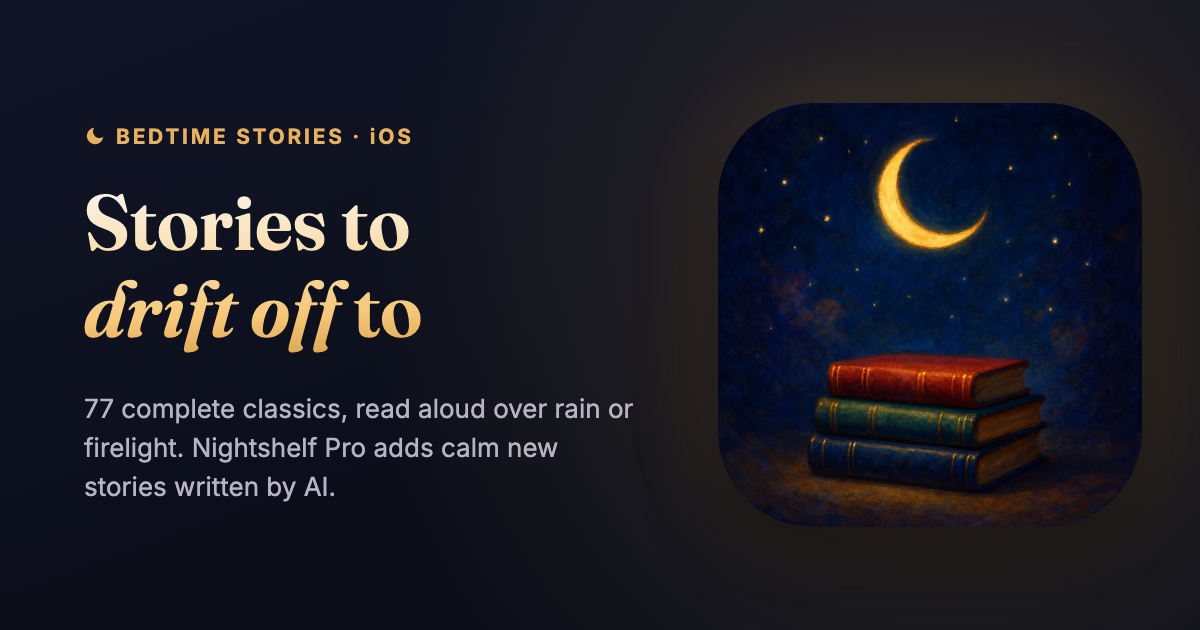
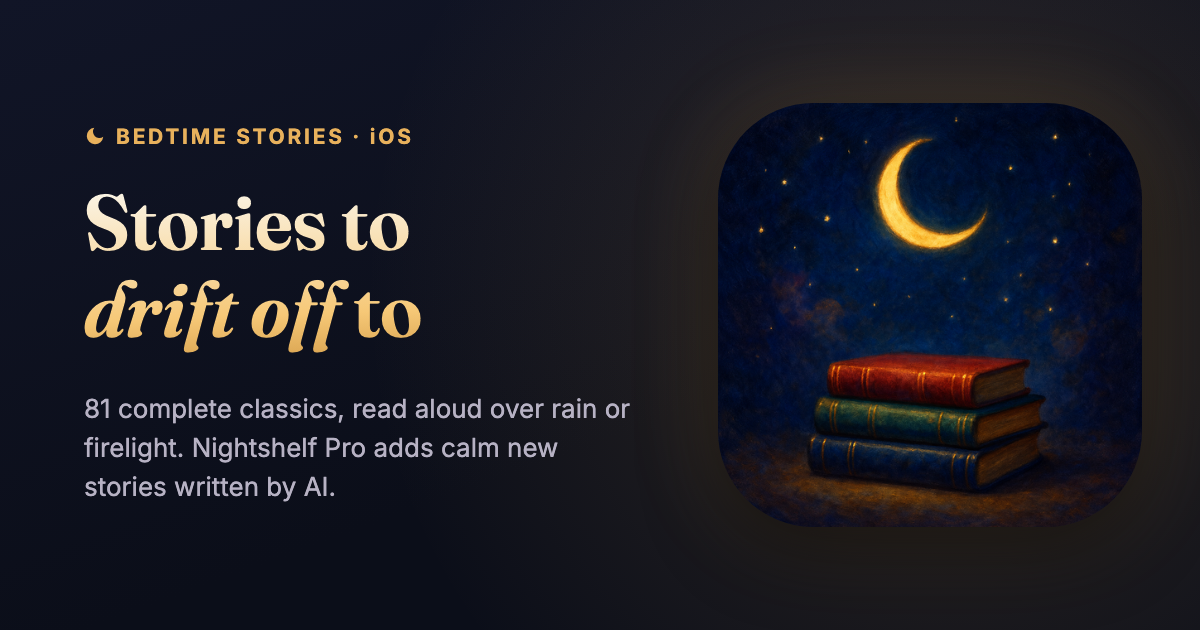
Prepare Nightshelf 1.8 catalog and sharing website

Changed region(s): [[0.0617, 0.6333, 0.5242, 0.6635]]

diff --git a/nightshelf/index.html b/nightshelf/index.html
@@ -10,23 +10,23 @@
   <meta name="theme-color" content="#0B0E19">
   <title>Nightshelf — sleep stories &amp; bedtime reading for iOS</title>
   
-  <meta name="description" content="Bedtime stories for iPhone. 77 complete classics read aloud over rain or firelight, plus calm new AI-written stories with Nightshelf Pro.">
+  <meta name="description" content="Bedtime stories for iPhone. 81 complete classics read aloud over rain or firelight, plus calm new AI-written stories with Nightshelf Pro.">
   <meta name="robots" content="index, follow">
   <link rel="canonical" href="https://hypersage.ai/nightshelf/">
 
   <meta property="og:type" content="website">
   <meta property="og:title" content="Nightshelf — Bedtime stories, read aloud">
-  <meta property="og:description" content="77 complete classics, read aloud over rain or firelight. Nightshelf Pro adds calm new stories written by AI.">
+  <meta property="og:description" content="81 complete classics, read aloud over rain or firelight. Nightshelf Pro adds calm new stories written by AI.">
   <meta property="og:url" content="https://hypersage.ai/nightshelf/">
   <meta property="og:site_name" content="Nightshelf">
-  <meta property="og:image" content="https://hypersage.ai/nightshelf/og-image.png?v=20260922">
+  <meta property="og:image" content="https://hypersage.ai/nightshelf/og-image.png?v=20260923">
   <meta property="og:image:width" content="1200">
   <meta property="og:image:height" content="630">
   <meta property="og:image:alt" content="Nightshelf — stories to drift off to: stacked books beneath a crescent moon">
   <meta name="twitter:card" content="summary_large_image">
   <meta name="twitter:title" content="Nightshelf — Bedtime stories, read aloud">
   <meta name="twitter:description" content="Complete bedtime classics, read aloud in a soft, sleepy voice. Nightshelf Pro adds calm new stories written by AI.">
-  <meta name="twitter:image" content="https://hypersage.ai/nightshelf/og-image.png?v=20260922">
+  <meta name="twitter:image" content="https://hypersage.ai/nightshelf/og-image.png?v=20260923">
   <meta name="twitter:image:alt" content="Nightshelf — stories to drift off to: stacked books beneath a crescent moon">
 
   <link rel="icon" type="image/png" href="app-icon.png">
@@ -559,9 +559,9 @@
 
 
     /* ====================== FREE / PRO SHELF ========================
-       The shelf itself, as spines: 77 books = 13 free (gold) + 64 with
+       The shelf itself, as spines: 81 books = 15 free (gold) + 66 with
        Pro (dim). Counts mirror the stat strip and the "A Shelf for the
-       Night" card — 13 gold + 64 dim path segments, no more, no fewer.
+       Night" card — 15 gold + 66 dim path segments, no more, no fewer.
        Static by default; the glow is progressive enhancement. */
     .shelfviz { max-width: 740px; margin: 56px auto 0; }
     .shelfviz svg { display: block; width: 100%; height: auto; }
@@ -599,7 +599,7 @@
   "name": "Nightshelf",
   "applicationCategory": "LifestyleApplication",
   "operatingSystem": "iOS",
-  "description": "Bedtime stories for iPhone. 77 complete classics read aloud with ambient sound and a sleep timer, plus calm new stories written by AI with Nightshelf Pro.",
+  "description": "Bedtime stories for iPhone. 81 complete classics read aloud with ambient sound and a sleep timer, plus calm new stories written by AI with Nightshelf Pro.",
   "url": "https://hypersage.ai/nightshelf/",
   "author": {
     "@type": "Organization",
@@ -626,7 +626,7 @@
       "name": "What's free, and what needs Nightshelf Pro?",
       "acceptedAnswer": {
         "@type": "Answer",
-        "text": "Thirteen of the seventy-seven classics are free and complete. You get the on-device voice, every ambient soundscape, the sleep timer, and screen dimming, with no time limit and no ads. Nightshelf Pro opens the other sixty-four books, the six AI narrators, 90- and 120-minute sleep timers, and Tonight's Story. Prices are shown in the app, and the annual plan includes a 7-day free trial if your Apple ID is eligible."
+        "text": "Fifteen of the eighty-one classics are free and complete. You get the on-device voice, every ambient soundscape, the sleep timer, and screen dimming, with no time limit and no ads. Nightshelf Pro opens the other sixty-six books, the six AI narrators, 90- and 120-minute sleep timers, and Tonight's Story. Prices are shown in the app, and the annual plan includes a 7-day free trial if your Apple ID is eligible."
       }
     },
     {
@@ -708,7 +708,7 @@
       </div>
     </div>
   </section>
-  <script src="shared-book-catalog.js?v=20260922-stories99" defer></script>
+  <script src="shared-book-catalog.js?v=20260923-stories104" defer></script>
   <script src="shared-book.js?v=20260914-stories20" defer></script>
 
   <header class="hero" id="top">
@@ -727,9 +727,9 @@
       <p class="fineprint">No account. No ads. Just goodnights.</p>
       <div class="stat-strip">
         
-        <div class="stat"><div class="num">77</div><div class="lbl">Complete classics</div></div>
+        <div class="stat"><div class="num">81</div><div class="lbl">Complete classics</div></div>
         <div class="stat"><div class="num">6</div><div class="lbl">Warm narrators</div></div>
-        <div class="stat"><div class="num">13</div><div class="lbl">Free to read</div></div>
+        <div class="stat"><div class="num">15</div><div class="lbl">Free to read</div></div>
       </div>
     </div>
   </header>
@@ -783,7 +783,7 @@
         <div class="feature reveal">
           <div class="ic"><svg viewBox="0 0 24 24" fill="none" stroke="currentColor" stroke-width="1.7" stroke-linecap="round" stroke-linejoin="round"><rect x="3.5" y="4" width="17" height="4.4" rx="1.2"/><rect x="3.5" y="9.8" width="17" height="4.4" rx="1.2"/><rect x="3.5" y="15.6" width="17" height="4.4" rx="1.2"/><line x1="6.5" y1="6.2" x2="8.2" y2="6.2"/><line x1="6.5" y1="12" x2="8.2" y2="12"/><line x1="6.5" y1="17.8" x2="8.2" y2="17.8"/></svg></div>
           <h3>A Shelf for the Night</h3>
-          <p>Seventy-seven complete classics, from Grimm's fairy tales to Austen and Verne. Thirteen are free; Nightshelf Pro opens the other sixty-four.</p>
+          <p>Eighty-one complete classics, from Grimm's fairy tales to Austen and Verne. Fifteen are free; Nightshelf Pro opens the other sixty-six.</p>
         </div>
         <div class="feature reveal">
           <div class="ic"><svg viewBox="0 0 24 24" fill="none" stroke="currentColor" stroke-width="1.7" stroke-linecap="round" stroke-linejoin="round"><circle cx="12" cy="12" r="9"/><path d="M15.5 8.5l-2 5-5 2 2-5z"/></svg></div>
@@ -816,19 +816,19 @@
       
       <figure class="shelfviz reveal">
         <svg viewBox="0 0 770 150" aria-hidden="true" focusable="false">
-          <text class="lab" x="14" y="20">77 complete classics</text>
-          <path class="spines free" d="M14 108V48M23 108V36M32 108V48M41 108V36M50 108V52M59 108V36M68 108V56M77 108V50M86 108V39M95 108V36M104 108V50M113 108V39M122 108V50"/>
-          <path class="spines pro" d="M161 108V46M170 108V36M179 108V46M188 108V58M197 108V54M206 108V56M215 108V52M224 108V44M233 108V46M242 108V36M251 108V48M260 108V44M269 108V52M278 108V46M287 108V52M296 108V54M305 108V36M314 108V44M323 108V48M332 108V46M341 108V36M350 108V48M359 108V50M368 108V56M377 108V46M386 108V36M395 108V50M404 108V42M413 108V56M422 108V50M431 108V39M440 108V56M449 108V50M458 108V39M467 108V44M476 108V58M485 108V50M494 108V36M503 108V46M512 108V52M521 108V56M530 108V36M539 108V50M548 108V39M557 108V52M566 108V48M575 108V58M584 108V44M593 108V46M602 108V42M611 108V48M620 108V39M629 108V50M638 108V58M647 108V50M656 108V44M665 108V50M674 108V54M683 108V44M692 108V39M701 108V48M710 108V58M719 108V44M728 108V58"/>
+          <text class="lab" x="14" y="20">81 complete classics</text>
+          <path class="spines free" d="M14 108V48M22.7 108V36M31.4 108V48M40.1 108V36M48.8 108V52M57.5 108V36M66.2 108V56M74.9 108V50M83.6 108V39M92.3 108V36M101 108V50M109.7 108V39M118.4 108V50M127.1 108V48M135.8 108V36"/>
+          <path class="spines pro" d="M166 108V46M174.7 108V36M183.4 108V46M192.1 108V58M200.8 108V54M209.5 108V56M218.2 108V52M226.9 108V44M235.6 108V46M244.3 108V36M253 108V48M261.7 108V44M270.4 108V52M279.1 108V46M287.8 108V52M296.5 108V54M305.2 108V36M313.9 108V44M322.6 108V48M331.3 108V46M340 108V36M348.7 108V48M357.4 108V50M366.1 108V56M374.8 108V46M383.5 108V36M392.2 108V50M400.9 108V42M409.6 108V56M418.3 108V50M427 108V39M435.7 108V56M444.4 108V50M453.1 108V39M461.8 108V44M470.5 108V58M479.2 108V50M487.9 108V36M496.6 108V46M505.3 108V52M514 108V56M522.7 108V36M531.4 108V50M540.1 108V39M548.8 108V52M557.5 108V48M566.2 108V58M574.9 108V44M583.6 108V46M592.3 108V42M601 108V48M609.7 108V39M618.4 108V50M627.1 108V58M635.8 108V50M644.5 108V44M653.2 108V50M661.9 108V54M670.6 108V44M679.3 108V39M688 108V48M696.7 108V58M705.4 108V44M714.1 108V58M722.8 108V46M731.5 108V36"/>
           <rect x="8" y="111" width="754" height="3" rx="1.5" fill="rgba(243,239,230,0.20)"/>
-          <path d="M14 124H131" stroke="rgba(232,177,92,0.45)" stroke-width="2" stroke-linecap="round" fill="none"/>
-          <path d="M161 124H746" stroke="rgba(243,239,230,0.14)" stroke-width="2" stroke-linecap="round" fill="none"/>
+          <path d="M14 124H145" stroke="rgba(232,177,92,0.45)" stroke-width="2" stroke-linecap="round" fill="none"/>
+          <path d="M166 124H746" stroke="rgba(243,239,230,0.14)" stroke-width="2" stroke-linecap="round" fill="none"/>
           <circle cx="196" cy="18" r="1.2" fill="rgba(243,239,230,0.45)"/>
           <circle cx="452" cy="26" r="1.1" fill="rgba(154,140,214,0.45)"/>
           <circle cx="700" cy="14" r="1.3" fill="rgba(246,200,119,0.4)"/>
         </svg>
         
-        <div class="shelf-axis" aria-hidden="true"><span class="a">13 free</span><span class="b">64 more with Nightshelf Pro</span></div>
-        <figcaption class="wd-cap">All seventy-seven download with the app. Thirteen are free to read, and sixty-four open with Nightshelf Pro. The shelf also includes ten AI-written Originals and twelve complete classic selections: 23 free catalog entries and 76 with Pro in total.</figcaption>
+        <div class="shelf-axis" aria-hidden="true"><span class="a">15 free</span><span class="b">66 more with Nightshelf Pro</span></div>
+        <figcaption class="wd-cap">All eighty-one download with the app. Fifteen are free to read, and sixty-six open with Nightshelf Pro. The shelf also includes eleven AI-written Originals and twelve complete classic selections: 26 free catalog entries and 78 with Pro in total.</figcaption>
       </figure>
 
       <figure class="listen-card reveal" id="listen">
@@ -947,7 +947,7 @@
         </details>
         <details class="faq">
           <summary>What's free, and what needs Nightshelf Pro?</summary>
-          <p>Thirteen of the seventy-seven classics are free and complete. You get the on-device voice, every ambient soundscape, the sleep timer, and screen dimming, with no time limit and no ads. Nightshelf Pro opens the other sixty-four books, the six AI narrators, 90- and 120-minute sleep timers, and Tonight's Story. Prices are shown in the app, and the annual plan includes a 7-day free trial if your Apple ID is eligible.</p>
+          <p>Fifteen of the eighty-one classics are free and complete. You get the on-device voice, every ambient soundscape, the sleep timer, and screen dimming, with no time limit and no ads. Nightshelf Pro opens the other sixty-six books, the six AI narrators, 90- and 120-minute sleep timers, and Tonight's Story. Prices are shown in the app, and the annual plan includes a 7-day free trial if your Apple ID is eligible.</p>
         </details>
         <details class="faq">
           <summary>Does it work offline?</summary>
@@ -975,7 +975,7 @@
         <svg class="moon" viewBox="0 0 24 24" fill="currentColor" aria-hidden="true"><path d="M21 12.8A9 9 0 1 1 11.2 3a7 7 0 0 0 9.8 9.8z"/></svg>
         <h2 class="grad-text">Drift off tonight</h2>
         
-        <p>A bedtime story, read aloud, every night. Start with thirteen free classics.</p>
+        <p>A bedtime story, read aloud, every night. Start with fifteen free classics.</p>
         <div class="cta-row">
           <a href="https://apps.apple.com/app/id6792761643" class="btn" target="_blank" rel="noopener">Download on the App Store</a>
           <a href="privacy.html" class="btn ghost">Privacy</a>

diff --git a/nightshelf/support.html b/nightshelf/support.html
@@ -7,18 +7,18 @@
   <meta name="theme-color" content="#0C0F1A">
   <title>Support — Nightshelf</title>
   
-  <meta name="description" content="Help with Nightshelf — 77 classics read aloud until you fall asleep. Email support@hypersage.ai for anything not answered here.">
+  <meta name="description" content="Help with Nightshelf — 81 classics read aloud until you fall asleep. Email support@hypersage.ai for anything not answered here.">
   <link rel="canonical" href="https://hypersage.ai/nightshelf/support.html">
   <meta property="og:type" content="website">
   <meta property="og:title" content="Support — Nightshelf">
-  <meta property="og:description" content="Help with Nightshelf — 77 classics read aloud until you fall asleep. Email support@hypersage.ai for anything not answered here.">
+  <meta property="og:description" content="Help with Nightshelf — 81 classics read aloud until you fall asleep. Email support@hypersage.ai for anything not answered here.">
   <meta property="og:url" content="https://hypersage.ai/nightshelf/support.html">
   <meta property="og:site_name" content="Nightshelf">
-  <meta property="og:image" content="https://hypersage.ai/nightshelf/og-image.png?v=20260922">
+  <meta property="og:image" content="https://hypersage.ai/nightshelf/og-image.png?v=20260923">
   <meta property="og:image:width" content="1200">
   <meta property="og:image:height" content="630">
   <meta name="twitter:card" content="summary_large_image">
-  <meta name="twitter:image" content="https://hypersage.ai/nightshelf/og-image.png?v=20260922">
+  <meta name="twitter:image" content="https://hypersage.ai/nightshelf/og-image.png?v=20260923">
   <link rel="icon" type="image/png" href="app-icon.png">
   <link rel="preconnect" href="https://fonts.googleapis.com">
   <link rel="preconnect" href="https://fonts.gstatic.com" crossorigin>
@@ -85,11 +85,11 @@
     <p class="updated">One developer reads every email. You'll get a real reply, usually within a day or two — <a href="mailto:support@hypersage.ai">support@hypersage.ai</a>.</p>
 
     <h2>Do I need a connection?</h2>
-    <p>Not for the library. All 77 books ship inside the app, and the on-device narrator reads them with no network at all — a plane, a basement, or airplane mode are all fine. Only the six cloud narrators and writing a new Tonight's Story need a connection.</p>
+    <p>Not for the library. All 81 books ship inside the app, and the on-device narrator reads them with no network at all — a plane, a basement, or airplane mode are all fine. Only the six cloud narrators and writing a new Tonight's Story need a connection.</p>
 
     <h2>Which books are free?</h2>
-    <p>Thirteen of the seventy-seven — among them <em>The Wind in the Willows</em>, <em>Alice's Adventures in Wonderland</em>, <em>A Christmas Carol</em>, <em>Treasure Island</em>, <em>Black Beauty</em>, Grimm and Aesop. They stay free for as long as you keep the app, with no account and no ads. Nightshelf Pro opens the other sixty-four, plus the six cloud narrators, Tonight's Story, and sleep timers past an hour.</p>
-    <p>All seventy-seven are <em>installed</em> either way — that is why the shelf works offline — but a locked book shows a padlock until you subscribe.</p>
+    <p>Fifteen of the eighty-one — among them <em>The Wind in the Willows</em>, <em>Alice's Adventures in Wonderland</em>, <em>A Christmas Carol</em>, <em>Treasure Island</em>, <em>Black Beauty</em>, Grimm and Aesop. They stay free for as long as you keep the app, with no account and no ads. Nightshelf Pro opens the other sixty-six, plus the six cloud narrators, Tonight's Story, and sleep timers past an hour.</p>
+    <p>All eighty-one are <em>installed</em> either way — that is why the shelf works offline — but a locked book shows a padlock until you subscribe.</p>
 
     <h2>The narrator sounds flat</h2>
     <p>That is the on-device voice. Two ways to improve it: pick one of the six cloud narrators (Nova, Alloy, Fable, Onyx, Echo or Shimmer — AI voices, part of Nightshelf Pro), or download a Premium system voice in iOS Settings → Accessibility → Spoken Content → Voices, which the on-device narrator will then use.</p>
@@ -124,7 +124,7 @@
     <p>Our server keeps a scrambled copy of a random ID so daily limits can be counted per device or subscription. Each phone has its own ID and keeps it through a reinstall; a phone that picks up a subscription bought in the app switches to the ID saved with that purchase. A subscription redeemed with an offer code has no such ID, so the server keeps a separate record for it — Apple's transaction IDs, the first device's random ID, and a bounded recent-device history of scrambled device IDs and first- and last-seen times — which the <a href="privacy.html">privacy policy</a> sets out in full. The server also keeps narration it has already made in a shared cache, filed under a fingerprint of the paragraph rather than under a device or subscription. No Nightshelf account or sign-in is required. Optional story details are sent as entered, so please leave personal information out.</p>
 
     <h2>Reviewers and press</h2>
-    <p>Reach out at <a href="mailto:support@hypersage.ai?subject=Nightshelf%20review%20request">support@hypersage.ai</a>. Nightshelf reads 77 complete public-domain classics aloud at bedtime, from Grimm's fairy tales to Dracula, Sherlock Holmes and Poe, with ambient sound and a sleep timer. It also includes ten Nightshelf Originals, written with AI for the app. Our thanks to the volunteer transcribers who typed the classics back into readable form.</p>
+    <p>Reach out at <a href="mailto:support@hypersage.ai?subject=Nightshelf%20review%20request">support@hypersage.ai</a>. Nightshelf reads 81 complete public-domain classics aloud at bedtime, from Grimm's fairy tales to Dracula, Sherlock Holmes and Poe, with ambient sound and a sleep timer. It also includes eleven Nightshelf Originals, written with AI for the app. Our thanks to the volunteer transcribers who typed the classics back into readable form.</p>
 
     <a class="back" href="index.html">← Back to Nightshelf</a>
   </div>

diff --git a/nightshelf/terms.html b/nightshelf/terms.html
@@ -13,11 +13,11 @@
   <meta property="og:description" content="Terms of Service for the Nightshelf reading app.">
   <meta property="og:url" content="https://hypersage.ai/nightshelf/terms.html">
   <meta property="og:site_name" content="Nightshelf">
-  <meta property="og:image" content="https://hypersage.ai/nightshelf/og-image.png?v=20260922">
+  <meta property="og:image" content="https://hypersage.ai/nightshelf/og-image.png?v=20260923">
   <meta property="og:image:width" content="1200">
   <meta property="og:image:height" content="630">
   <meta name="twitter:card" content="summary_large_image">
-  <meta name="twitter:image" content="https://hypersage.ai/nightshelf/og-image.png?v=20260922">
+  <meta name="twitter:image" content="https://hypersage.ai/nightshelf/og-image.png?v=20260923">
   <link rel="icon" type="image/png" href="app-icon.png">
   <link rel="preconnect" href="https://fonts.googleapis.com">
   <link rel="preconnect" href="https://fonts.gstatic.com" crossorigin>
@@ -89,11 +89,11 @@
     <p>We grant you a personal, non-exclusive, non-transferable license to use Nightshelf for your own personal, non-commercial listening and reading on devices you own or control. You may not resell, redistribute, or reverse-engineer the app.</p>
 
     <h2>The stories</h2>
-    <p>The bundled classics are historic works supplied in editions reviewed for the app's release. Copyright terms vary by territory. Their text is included for your private use, and our thanks go to the volunteer transcribers who typed these pages back into readable form. The app also includes ten prepared Nightshelf Originals, written with AI for Nightshelf. Unlike the classics, they are not public-domain works; four are free, and the rest are included with Nightshelf Pro. Custom bedtime stories you conjure in the app are written by AI, for your own personal enjoyment.</p>
+    <p>The bundled classics are historic works supplied in editions reviewed for the app's release. Copyright terms vary by territory. Their text is included for your private use, and our thanks go to the volunteer transcribers who typed these pages back into readable form. The app also includes eleven prepared Nightshelf Originals, written with AI for Nightshelf. Unlike the classics, they are not public-domain works; five are free, and the rest are included with Nightshelf Pro. Custom bedtime stories you conjure in the app are written by AI, for your own personal enjoyment.</p>
 
     <h2>Nightshelf Pro</h2>
     
-    <p>All 77 books are installed with the app, so the shelf works offline. Thirteen are free to read; Nightshelf Pro opens the remaining 64, along with the six cloud narrators, Tonight's Story, and sleep timers longer than an hour. Tonight's Story has a daily limit — a few new stories a day, then it resets. Cloud narration with Nightshelf Pro has no nightly allowance to run through; its one ceiling is a fair-use limit, there to stop automated misuse. If that ceiling or an outage interrupts a story, the story carries on in the on-device voice, and the cloud narrator comes back on its own. We may adjust these limits.</p>
+    <p>All 81 books are installed with the app, so the shelf works offline. Fifteen are free to read; Nightshelf Pro opens the remaining 66, along with the six cloud narrators, Tonight's Story, and sleep timers longer than an hour. Tonight's Story has a daily limit — a few new stories a day, then it resets. Cloud narration with Nightshelf Pro has no nightly allowance to run through; its one ceiling is a fair-use limit, there to stop automated misuse. If that ceiling or an outage interrupts a story, the story carries on in the on-device voice, and the cloud narrator comes back on its own. We may adjust these limits.</p>
     <p>A current, valid offer-code subscription can use the cloud narrators, Tonight's Story and story covers across your devices after its Apple receipt is verified. These devices share the subscription's service limits. The server keeps a bounded recent-device history, described in the <a href="privacy.html">privacy policy</a>; it does not impose a fixed five-device refusal.</p>
     <p>Nightshelf Pro is a recurring, auto-renewing subscription billed monthly or annually through your Apple ID. Where offered, the annual plan includes a 7-day free trial that converts to a paid subscription unless you cancel before the trial ends; the trial is shown only when your Apple ID is eligible.</p>
     <p>Subscriptions renew automatically until you cancel. You can cancel anytime — and turn off auto-renewal — in Settings → Apple ID → Subscriptions. Cancelling stops future charges; access continues until the end of the current billing period. Refund requests are handled by Apple under Apple's policies; Nightshelf does not issue refunds directly.</p>

diff --git a/nightshelf/shared-book-catalog.js b/nightshelf/shared-book-catalog.js
@@ -150,6 +150,12 @@ window.nightshelfSharedBooks = {
     "freeTier" : false,
     "title" : "The Blue Fairy Book"
   },
+  "brick_moon" : {
+    "author" : "Edward Everett Hale",
+    "blurb" : "A brick satellite carries a small community into orbit; an ingenious voyage with a frightening launch and dated social attitudes.",
+    "freeTier" : true,
+    "title" : "The Brick Moon"
+  },
   "bulfinch_mythology" : {
     "author" : "Thomas Bulfinch",
     "blurb" : "Greek myth, the Round Table, and Charlemagne, told in one long volume.",
@@ -161,6 +167,12 @@ window.nightshelfSharedBooks = {
     "blurb" : "Buck, the Yukon snows, and the song of the younger world.",
     "freeTier" : false,
     "title" : "The Call of the Wild"
+  },
+  "canterville_ghost" : {
+    "author" : "Oscar Wilde",
+    "blurb" : "An American family unsettles an English ghost in a comic tale with a dark history of murder and captivity.",
+    "freeTier" : true,
+    "title" : "The Canterville Ghost"
   },
   "celtic_fairy_tales" : {
     "author" : "Joseph Jacobs",
@@ -179,6 +191,12 @@ window.nightshelfSharedBooks = {
     "blurb" : "A ghostly Christmas journey through regret, kindness, and second chances.",
     "freeTier" : true,
     "title" : "A Christmas Carol"
+  },
+  "cousin_phillis" : {
+    "author" : "Elizabeth Gaskell",
+    "blurb" : "A country household meets the railway age in a reflective novella of first love, disappointment, and recovery.",
+    "freeTier" : false,
+    "title" : "Cousin Phillis"
   },
   "cranford" : {
     "author" : "Elizabeth Gaskell",
@@ -227,6 +245,12 @@ window.nightshelfSharedBooks = {
     "blurb" : "A green light across the bay. Long summer parties.",
     "freeTier" : false,
     "title" : "The Great Gatsby"
+  },
+  "great_stone_sardis" : {
+    "author" : "Frank R. Stockton",
+    "blurb" : "A polar submarine and a ray into the Earth lead to discovery, sabotage, peril, and an accidental death.",
+    "freeTier" : false,
+    "title" : "The Great Stone of Sardis"
   },
   "green_fairy_book" : {
     "author" : "Andrew Lang",
@@ -419,6 +443,14 @@ window.nightshelfSharedBooks = {
     "freeTier" : false,
     "kind" : "original",
     "title" : "The Rain Map"
+  },
+  "original_space_between_replies" : {
+    "author" : "Nightshelf",
+    "blurb" : "With eleven minutes between Mars and Earth, two sisters find a new way to share an ordinary evening.",
+    "disclosure" : "Created with AI for Nightshelf. A complete, prepared story you can return to, with no generation needed.",
+    "freeTier" : true,
+    "kind" : "original",
+    "title" : "The Space Between Replies"
   },
   "original_tide_glass_observatory" : {
     "author" : "Nightshelf",

diff --git a/nightshelf/privacy.html b/nightshelf/privacy.html
@@ -14,11 +14,11 @@
   <meta property="og:description" content="Privacy Policy for the Nightshelf reading app.">
   <meta property="og:url" content="https://hypersage.ai/nightshelf/privacy.html">
   <meta property="og:site_name" content="Nightshelf">
-  <meta property="og:image" content="https://hypersage.ai/nightshelf/og-image.png?v=20260922">
+  <meta property="og:image" content="https://hypersage.ai/nightshelf/og-image.png?v=20260923">
   <meta property="og:image:width" content="1200">
   <meta property="og:image:height" content="630">
   <meta name="twitter:card" content="summary_large_image">
-  <meta name="twitter:image" content="https://hypersage.ai/nightshelf/og-image.png?v=20260922">
+  <meta name="twitter:image" content="https://hypersage.ai/nightshelf/og-image.png?v=20260923">
   <link rel="icon" type="image/png" href="app-icon.png">
   <link rel="preconnect" href="https://fonts.googleapis.com">
   <link rel="preconnect" href="https://fonts.gstatic.com" crossorigin>

diff --git a/tools/check_nightshelf_share_browser.py b/tools/check_nightshelf_share_browser.py
@@ -35,6 +35,11 @@ try:
                 ('original_borrowed_light', 'The Sea of Borrowed Light', 'Included with Nightshelf Pro'),
                 ('original_tide_glass_observatory', 'The Tide-Glass Observatory', 'Free on Nightshelf'),
                 ('original_garden_between_stations', 'The Garden Between Stations', 'Included with Nightshelf Pro'),
+                ('original_space_between_replies', 'The Space Between Replies', 'Free on Nightshelf'),
+                ('brick_moon', 'The Brick Moon', 'Free on Nightshelf'),
+                ('canterville_ghost', 'The Canterville Ghost', 'Free on Nightshelf'),
+                ('cousin_phillis', 'Cousin Phillis', 'Included with Nightshelf Pro'),
+                ('great_stone_sardis', 'The Great Stone of Sardis', 'Included with Nightshelf Pro'),
             ]:
                 page.goto(base + '?book=' + book, wait_until='networkidle')
                 assert page.locator('#shared-book').is_visible(), book
@@ -46,7 +51,7 @@ try:
                 if book.startswith('original_'):
                     assert page.locator('#shared-book-author').inner_text() == 'A Nightshelf Original'
                     assert 'Created with AI for Nightshelf.' in page.locator('#shared-book-description').inner_text()
-                if captures and book in ['wind_in_willows', 'original_tide_glass_observatory', 'original_garden_between_stations']:
+                if captures and book in ['brick_moon', 'great_stone_sardis', 'original_space_between_replies']:
                     page.screenshot(path=str(captures / f'share-{book}-{width}.png'))
             for held in ['peter_pan', 'irish_fairy_tales', 'pinocchio', 'custom_private']:
                 page.goto(base + '?book=' + held, wait_until='networkidle')

diff --git a/tools/build_app_og.py b/tools/build_app_og.py
@@ -88,7 +88,7 @@ CARDS = {
         # "with Nightshelf Pro" is load-bearing and must never be trimmed away:
         # conjuring a story is Pro-only with NO free allowance (the backend hard-402s,
         # index.html:706-711). An unqualified "AI stories" line overclaims the free tier.
-        "sub": "77 complete classics, read aloud over rain or firelight. Nightshelf&nbsp;Pro adds calm new stories written by AI.",
+        "sub": "81 complete classics, read aloud over rain or firelight. Nightshelf&nbsp;Pro adds calm new stories written by AI.",
     },
     "mythwright": {
         "art": "app-icon.png",
